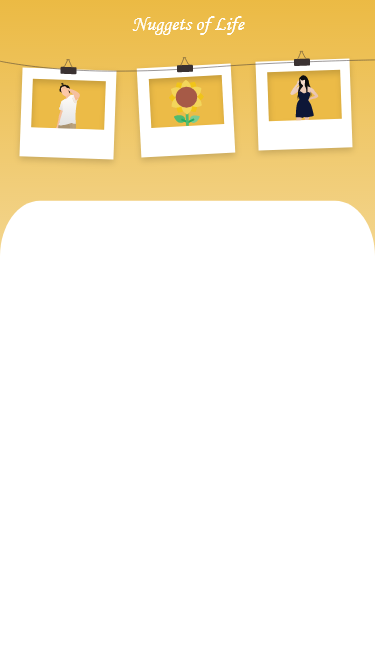
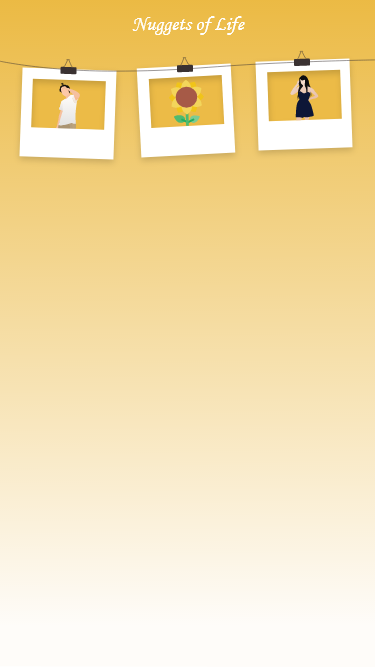
created writeNugget page

diff --git a/src/app/write-nugget/write-nugget.page.html b/src/app/write-nugget/write-nugget.page.html
@@ -1,9 +1,40 @@
-<ion-header>
+<ion-header no-border>
   <ion-toolbar>
-    <ion-title>writeNugget</ion-title>
+    <ion-buttons slot="start">
+      <ion-back-button defaultHref="/"></ion-back-button>
+    </ion-buttons>
   </ion-toolbar>
 </ion-header>
 
-<ion-content>
+<ion-content fullscreen>
+  <ion-grid style="padding-top: 40%;">
+    <ion-row>
+      <ion-col>
+        <ion-label>
+          <p style="text-align: center; font-weight: bold; font-size: 24px; color: white;">Write a Nugget of your Life
+          </p>
+        </ion-label>
+      </ion-col>
+    </ion-row>
+    <ion-row>
+      <ion-col>
+        <ion-input text-center
+          style="background-color: white; border-color: #EAB536; border-radius: 10px; color: #EAB536; margin-right: 20px;"
+          [(ngModel)]="input_t" placeholder="  Title" type="text"></ion-input>
+      </ion-col>
+    </ion-row>
+    <ion-row>
+      <ion-col>
+        <ion-input text-center
+          style="background-color: white; border-color: #EAB536; border-radius: 10px; color: #EAB536; margin-right: 20px; height: 100px;"
+          [(ngModel)]="input_d" placeholder="  Description" type="string"></ion-input>
+      </ion-col>
+    </ion-row> 
+    <ion-row>
+      <ion-col> 
+        <ion-fab-button horizontal="end" color="light" color="dark" [routerLink]="['/']">Save</ion-fab-button>
+      </ion-col>
+    </ion-row>
+  </ion-grid>
 
 </ion-content>

diff --git a/src/app/home/home.page.html b/src/app/home/home.page.html
@@ -3,23 +3,16 @@
 </ion-header>
 
 <ion-content fullscreen > 
+
+  <div>
+
+  </div>
+
   <div>
     <ion-fab horizontal="end" vertical="bottom" slot="fixed">
-      <ion-fab-button>
+      <ion-fab-button [routerLink]="['../write-nugget']">
         <img src="../../assets/btn-write.png" style="display: contain;">
       </ion-fab-button>
     </ion-fab>
-  </div>
-
-  
-  <!-- <ion-img width="100%" height="100%" src="../../assets/bg-white.png"></ion-img> -->
-  <!-- <img src=“../../assets/bg-white.png”> -->
-  <!-- <ion-img [src]="url(../../assets/bg-white.png)"></ion-img> -->
-  <!-- <div id="bg-white">
-    <p>hi</p>
-  </div>
-  <div id="container">
-    <strong>Ready to create an app?</strong>
-    <p>Start with Ionic <a target="_blank" rel="noopener noreferrer" href="https://ionicframework.com/docs/components">UI Components</a></p>
-  </div> -->
+  </div> 
 </ion-content>

diff --git a/src/app/write-nugget/write-nugget.page.scss b/src/app/write-nugget/write-nugget.page.scss
@@ -1,0 +1,16 @@
+ion-content{
+    --padding-bottom: 10px;
+    --padding-end: 25px;
+    --padding-start: 25px;
+    --padding-top: 20px;
+    --background: url(../../assets/bg-nol2.png) 0 0/100% 100% no-repeat;
+  }
+  
+  ion-toolbar {
+    /*--background: transparent no-repeat fixed center;
+    --color: #EAB536;
+    position: absolute;
+    top: 0;*/
+    --background: transparent;
+    --ion-color-base: transparent !important;
+  } 
